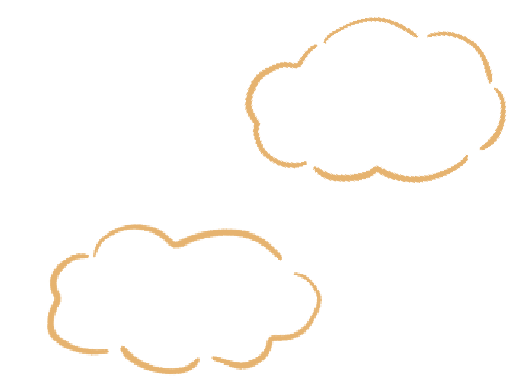
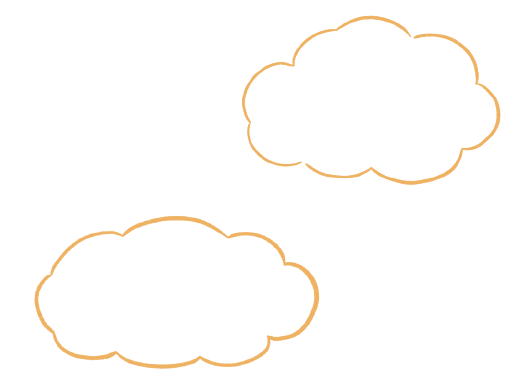
cahnge img and paragraph

Changed region(s): [[0.0615, 0.5581, 0.6154, 0.9612], [0.4615, 0.031, 0.8615, 0.4961], [0.7692, 0.062, 0.9846, 0.4341]]

diff --git a/index.html b/index.html
@@ -8,7 +8,7 @@
     <meta name="description" content="奈良の魅力にとりつかれた移住者とともに新たな日常を発見する学生発信のフリーペーパーです。">
     <meta property="og:type" content="website">
     <meta property="title" content="窓の外から。| 奈良の魅力を発信するフリーペーパー">
-    
+
     <meta property="og:image" content="https://madonosotokara.com/public/ogp.png">
     <link rel="shortcut icon" href="public/favicon.ico">
 
@@ -19,18 +19,18 @@
 </head>
 
 <body>
-   <div id="loading">
-  <div class="spinner"></div>
-</div>
+    <div id="loading">
+        <div class="spinner"></div>
+    </div>
     <header class="fixed-bg" id="top">
-<!--        <img src="img/firstview.png" alt="" class="top-img pc fadein">-->
-       <img src="img/mask-top.png" alt="" class="top-img pc">
-<!--        sp-->
-   <img src="img/sp-fr-img.png" alt="" class="sp sp-first-img">
+        <!--        <img src="img/firstview.png" alt="" class="top-img pc fadein">-->
+        <img src="img/mask-top.png" alt="" class="top-img pc">
+        <!--        sp-->
+        <img src="img/sp-fr-img.png" alt="" class="sp sp-first-img">
     </header>
 
     <wrapper>
-       <div class="connection"></div>
+        <div class="connection"></div>
         <section class="intro fadein">
             <h2>窓の外から声が聞こえる。</h2>
             <p>奈良の魅力にとりつかれた移住者とともに<br>新たな日常を発見するフリーペーパーです。<br>彼らは仕方なく奈良に来たのか。<br>どうして奈良だったのか。<br>窓の外から聞こえてくる声に耳を傾けてみませんか？</p>
@@ -41,11 +41,11 @@
 
         <section class="article fadein">
             <div class="content-box con-article">
-               
+
                 <h3>窓の外から。第一号を覗き見</h3>
                 <img src="img/top-ar-img.png" alt="" class="cover-img sp">
                 <div class="content-txt">
-                    <p>記念すべき第一号では、本屋を営むヌリ平さんにインタビュー。ヌリ平さんはなぜ奈良に移住したのか？その一部を試し読みすることができます。奈良の魅力に取り憑かれた移住者の声を聞いてみましょう。</p>
+                    <p>記念すべき第一号では、移住者2人にインタビュー。その中から本屋を営むヌリ平さんがなぜ奈良に来たのかを試し読みすることができます。奈良の魅力に取り憑かれた移住者の声を聞いてみましょう。</p>
                     <a href="article/article.html"><img src="img/button.png" alt="" class="con-button"></a>
                 </div>
                 <img src="img/top-ar-img.png" alt="" class="cover-img pc">
@@ -66,7 +66,7 @@
             </div>
             <img src="img/tr/top-tr-person.png" alt="" class="tr ab-person">
         </section>
-        
+
         <img src="/img/sp-wave.png" alt="" class="sp wave">
         <img src="img/footer.png" alt="" class="pc wave fadein">
         <footer>
@@ -83,6 +83,4 @@
     <script src="https://ajax.googleapis.com/ajax/libs/jquery/3.5.1/jquery.min.js"></script>
     <script src="js/main.js"></script>
     <script src="js/scrollanimation.js"></script>
-</body>
-
-</html>
+</body></html>

diff --git a/about/about.html b/about/about.html
@@ -62,14 +62,14 @@
                     <p><span>窓の外からこんにちは、奈良を歩いてみませんか？</span><br>
                         こんにちは、暇あれば散歩と散歩のコメちゃんです。「今日この家はカレー<br class="pc">
                         だな」とか思いながら歩いてます。第一号では窓の外から２人の方をお迎え<br class="pc">
-                        してお話を伺いました。興味よってそれぞれ奈良の楽しみ方があり、「どう<br class="pc">
+                        してお話を伺いました。興味によってそれぞれ奈良の楽しみ方があり「どう<br class="pc">
                         奈良を楽しむか」新しい課題を出された気がします。窓の外(県外)からやっ<br class="pc">
                         てきた人のお話しを聞くことであなたの明日からの奈良が少しでも違った色<br class="pc">
                         になったらなと、思います。最後までご覧くださりありがとうございます。</p>
                     <img src="/img/editer-img.png" alt="" class="sec-img">
                 </div>
             </div>
-            <img src="/img/tr/ab-tr-book.png" alt="" class="tr ed-book">
+            <img src="/img/tr/ar-tr-book.png" alt="" class="tr ed-book">
             <!--            <img src="/img/tr/ab-tr-cloud3.png" alt="" class="tr ed-cloud">-->
             <img src="/img/tr/ab-tr-person.png" alt="" class="tr ed-person">
         </section>
@@ -83,7 +83,7 @@
                         <span class="pc">発行日</span>
                         <p class="pc">4月下旬より</p>
                         <span class="pc">配布場所</span>
-                        <p class="pc">まるまるにて</p>
+                        <p class="pc">BONCHIにて</p>
                         <p class="sp"><span>発行日</span>4月下旬より</p>
                         <p class="sp"><span>配布場所</span>まるまるにて</p>
                     </div>
@@ -93,7 +93,7 @@
             </div>
             <img src="/img/tr/ab-tr-cb.png" alt="" class="tr info-cb">
             <img src="/img/tr/ab-tr-ice.png" alt="" class="tr info-ice pc">
-            <img src="/img/tr/ab-tr-cloud4.png" alt="" class="tr info-cloud pc">
+            <img src="/img/tr/ar-tr-cloud1.png" alt="" class="tr info-cloud pc">
         </section>
 
         <section class="flow fadein">

diff --git a/article/article.html b/article/article.html
@@ -28,8 +28,9 @@
         <img src="/img/logo_or.png" alt="" class="firstview-logo fadein pc">
         <img src="/img/firstview-bg.png" alt="" class="firstview-img pc">
         <h3 class="fadein">窓の外から。第一号を覗き見</h3>
-        <p class="fadein">記念すべき第一号では、本屋を営むヌリ平さんに<br class="sp">インタビュー。<br class="pc">
-            ヌリ平さんはなぜ奈良に移住したのか？<br class="sp">その一部を試し読みすることができます。</p>
+        <p class="fadein">記念すべき第一号では、移住者の2人に<br class="sp">インタビュー。<br class="pc">
+            そのうちの1人、<br class="sp">ヌリ平さんはなぜ奈良に移住したのか？<br class="sp">その一部を試し読みすることができます。
+        </p>
         <img src="/img/tr/fr-cloud.png" alt="" class="tr fr-cloud fadein pc">
         <img src="/img/tr/ar-tr-book.png" alt="" class="tr fr-book fadein">
     </header>
@@ -90,9 +91,9 @@
 
         <section class="fadein">
             <div class="flow">
-                <p>フリーペーパーではより詳しく<br>
-                    ヌリ平さんについて知ることができます。<br>
-                    手にとって読んでみませんか？</p>
+                <p>フリーペーパーではヌリ平さんが感じる奈良<br>
+                    についてより詳しく知ることができます。<br>
+                    あなたも手にとって読んでみませんか？</p>
             </div>
             <img src="/img/tr/ar-tr-sky.png" alt="" class="tr fl-tr pc">
             <img src="/img/tr/ab-tr-sun.png" alt="" class="tr fl-tr-sun sp">
